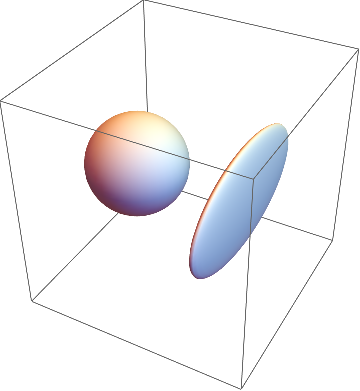
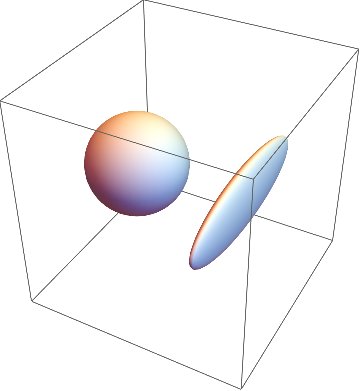
add get_obj_slice

Changed region(s): [[0.5194, 0.3069, 0.825, 0.7366]]

diff --git a/3D_recon.py b/3D_recon.py
@@ -11,12 +11,10 @@ np.random.seed(2017)
 
 def construct_obj():
     x, y, z = np.mgrid[-100:100:Nx*1j, -100:100:Ny*1j, -100:100:Nz*1j]
-    print(x.shape)
-    quit()
     gwnoise = abs(np.random.normal(loc = 0, scale = .01,  size=[Nx, Ny, Nz]))
-    # obj = np.where(x*x/80**2 + y*y/50**2 + z*z/10**2 <= 1, gwnoise, 0)
+    #  obj = np.where(x*x/80**2 + y*y/50**2 + z*z/10**2 <= 1, gwnoise, 0)
     obj = np.where( np.logical_or( (x+50)**2/2025 + y**2/2025 + z**2/2025 <=1,\
-        (x-50)**2/100 + y**2/8100 + z**2/2500 <=1 ), 1, 0 )
+        (x-50)**2/100 + y**2/8100 + z**2/900 <=1 ), gwnoise, 0 )
     return obj
 
 def low_pass_filter_density_map(in_arr, damping=-1., thr=1.E-3, num_cycles=2):
@@ -38,9 +36,9 @@ def slice_wise_radon(obj, theta=range(80)):
     return sinograms, theta
 
 def slice_wise_iradon(sinograms, theta):
-    recon_obj = np.zeros( (min(Ny, Nz),)*2 + (Nx,) )
+    recon_obj = np.zeros( (Nx,) + (min(Ny, Nz),)*2 )
     for s in range(Nx):
-        recon_obj[:,:,s] = st.iradon(sinograms[:,:,s], theta=theta, circle=True)
+        recon_obj[s,:,:] = st.iradon(sinograms[:,:,s], theta=theta, circle=True)
     return recon_obj
 
 def constract_projections(sinograms, theta):
@@ -49,15 +47,23 @@ def constract_projections(sinograms, theta):
         projections[:,:,t] = sinograms[:,t,:]
     return projections
 
-
-
+def get_obj_slice(obj, index, axis=0):
+    if axis == 0:
+        return obj[index,:,:]
+    elif axis == 1:
+        return obj[:,index,:]
+    elif axis == 2:
+        return obj[:,:,index]
+    else:
+        print("wrong axis input.")
 
 
 if __name__ == "__main__":
     obj = construct_obj()
     obj = low_pass_filter_density_map(obj)
 
-    theta = range(0,180,10)
+
+    theta = range(0,180,1)
     sinograms, theta = slice_wise_radon(obj, theta=theta)
     projections = constract_projections(sinograms, theta)
 
@@ -66,7 +72,17 @@ if __name__ == "__main__":
     error = recon_obj - obj
     print("rms error = {}".format(np.std(error)))
 
-    plt.imshow(projections[:,:,0], cmap=plt.cm.Greys_r)
+    fig, (ax1,ax2) = plt.subplots(ncols = 2)
+
+    index = 60
+    axis = 1
+    ax1.imshow(get_obj_slice(obj, index, axis), cmap=plt.cm.Greys_r)
+    ax2.imshow(get_obj_slice(recon_obj, index, axis), cmap=plt.cm.Greys_r)
+
+
+
+
+    # plt.imshow(projections[:,:,0], cmap=plt.cm.Greys_r)
 
     plt.show()
 
